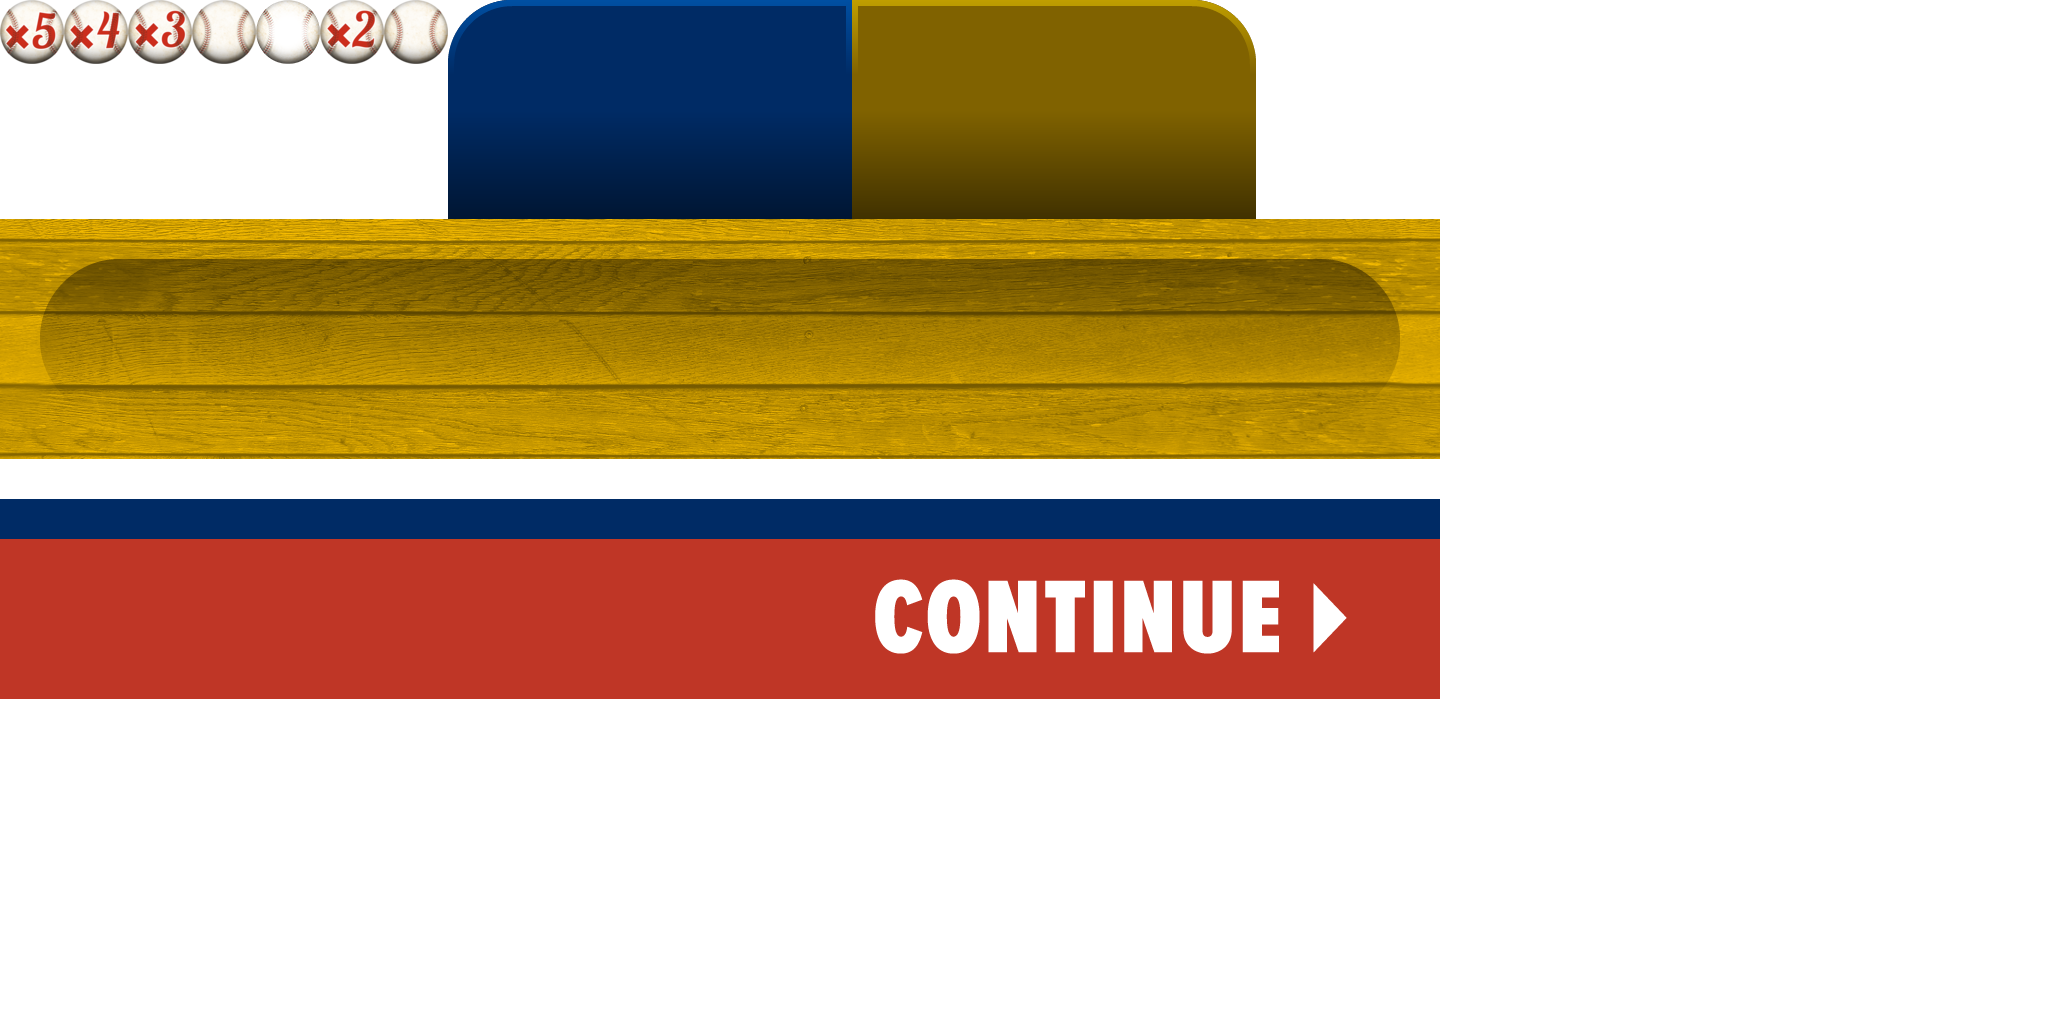
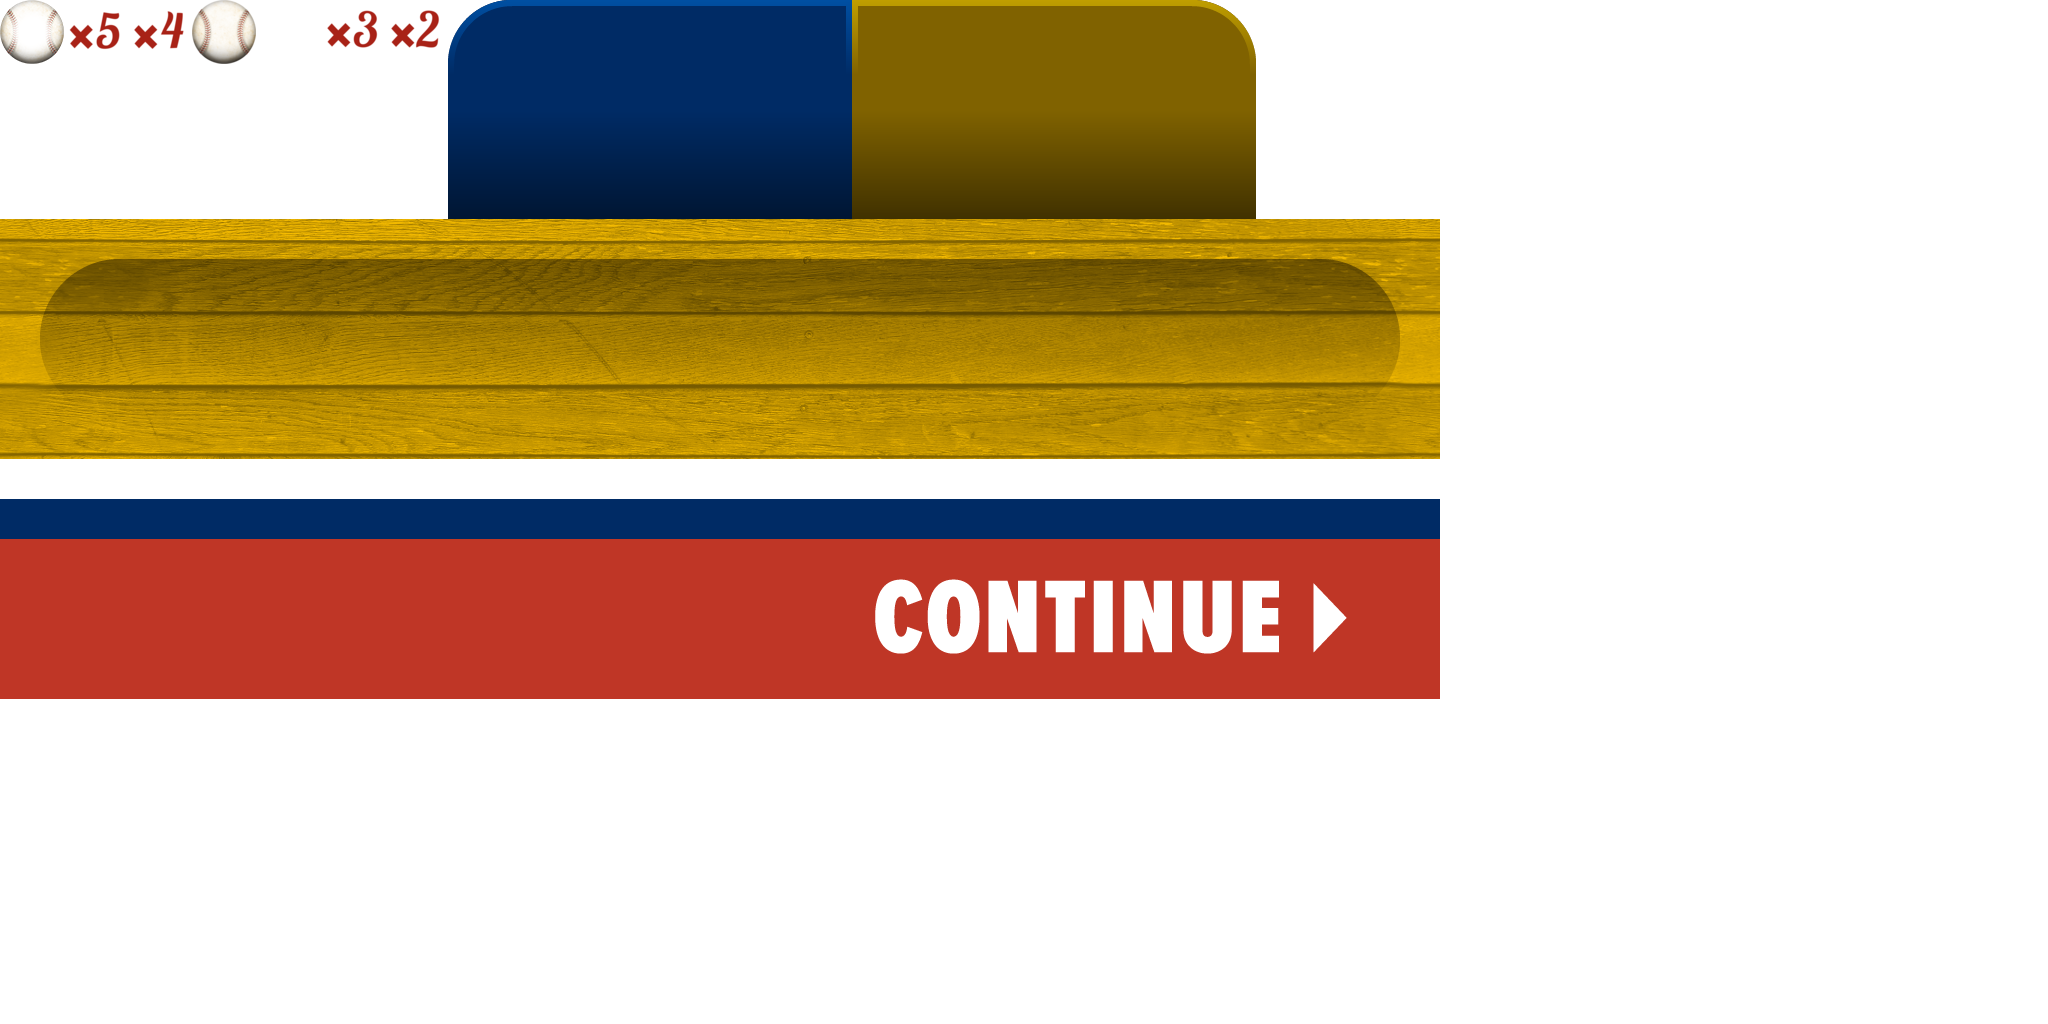
prediction: Stacked balls are now translucent.

Changed region(s): [[0.125, 0.0, 0.2188, 0.0625], [0.0, 0.0, 0.0938, 0.0625]]

diff --git a/webgl/prediction.js b/webgl/prediction.js
@@ -676,7 +676,7 @@ class BallCountSprite extends PIXI.Sprite {
   /** @param {number} value */
   set count(value) {
     if (value > 1) {
-      const texture = PIXI.loader.resources['resources/prediction.json'].textures[`Item-Ball-x${value}.png`];
+      const texture = PIXI.loader.resources['resources/prediction.json'].textures[`Ball-Text-x${value}.png`];
       this.texture = texture;
     } else {
       this.texture = null;
